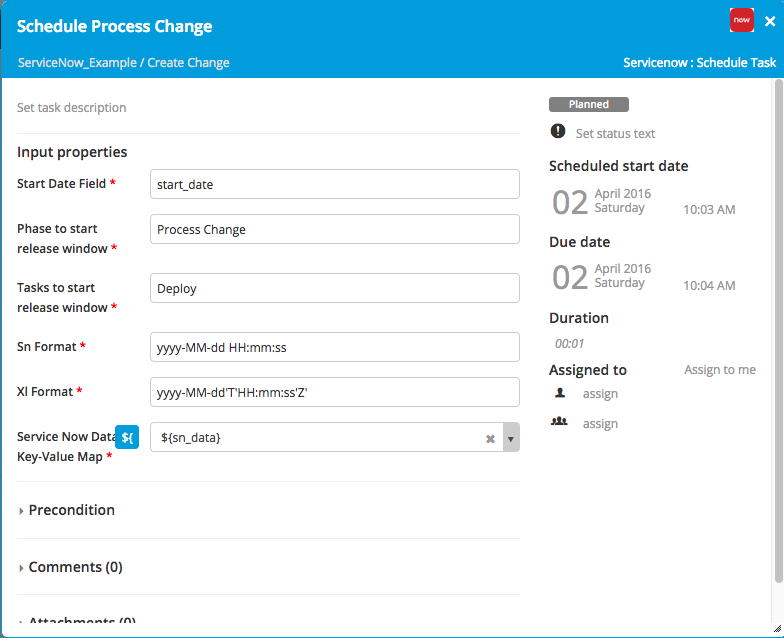
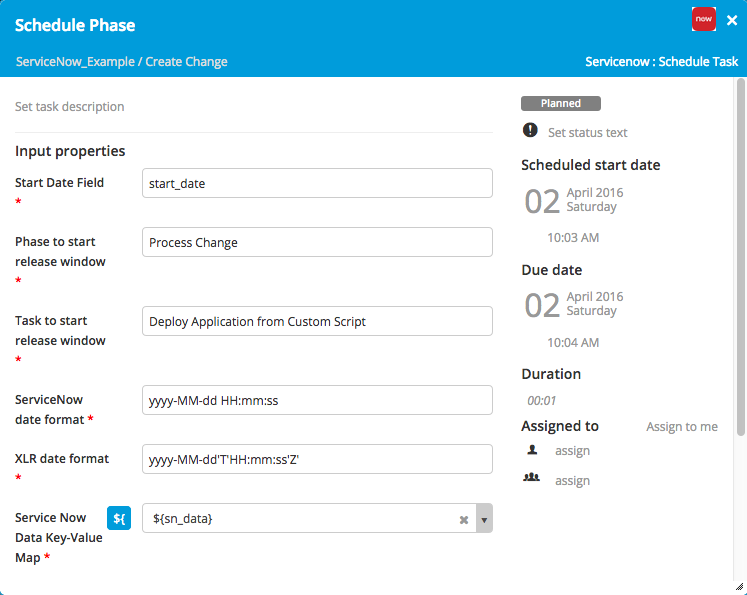
Update the documentation

diff --git a/README.md b/README.md
@@ -122,6 +122,13 @@ This plugin (v3.x) requires XLR 4.8
 
 * **Schedule Task** - Use data in a ServiceNow ticket to schedule a task to run at some time in the future.
 
+	* Start Date Field: Field in ServiceNow record to use for the start date of the target task
+	* Phase to start release window: The Release phase to look for the task that will start based on the ServiceNow start date
+	* Task to start release window: This is the task that will have its start data and time set based on the ServiceNow ticket start time
+	* Servicenow Date format: The date format to use to parse ServiceNow dates
+	* XL Release Date format: That date format to use to part XL Release dates
+	* ServiceNow key-value map: XL Release variable to keep information about an ServiceNow ticket.  This data should include the date and time that the release is scheduled to continue.
+
 ![image](images/ScheduleTask.png)
 
 
